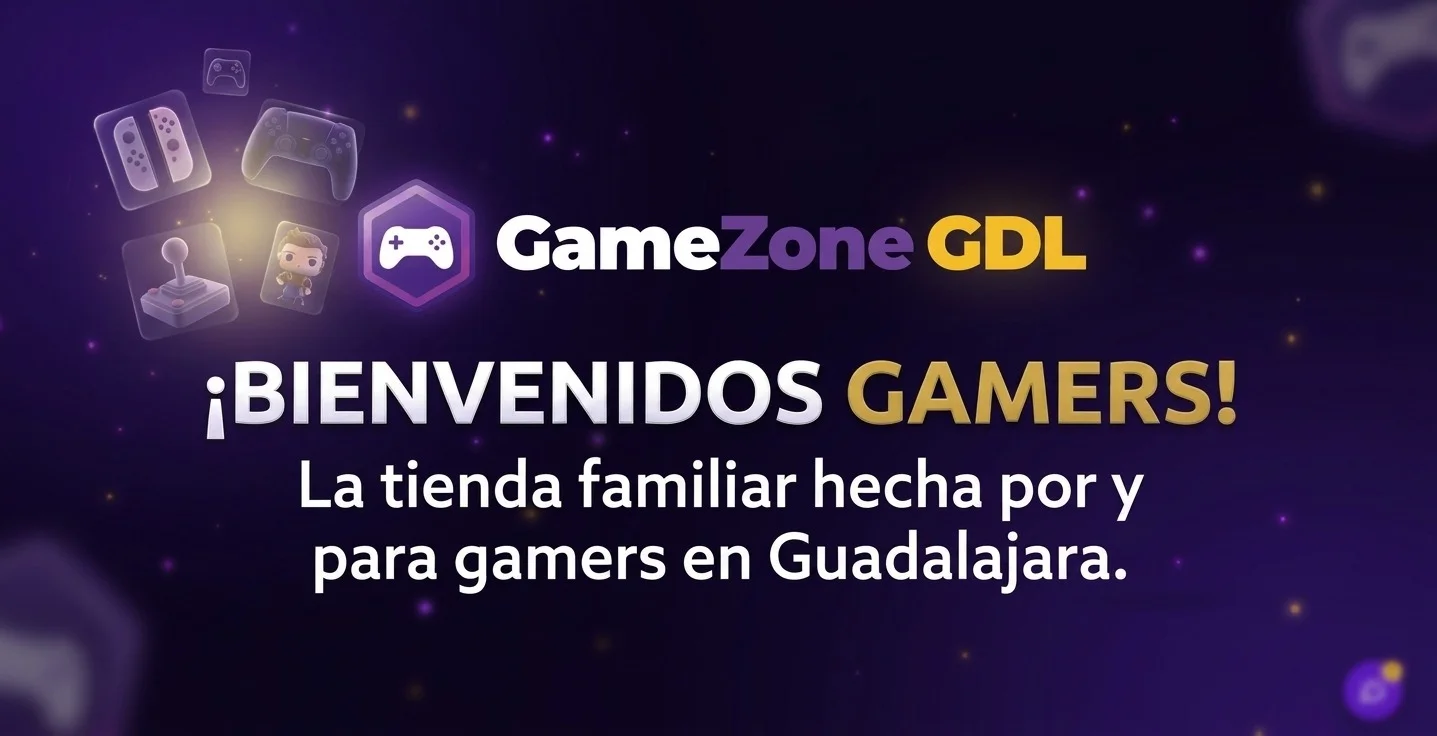
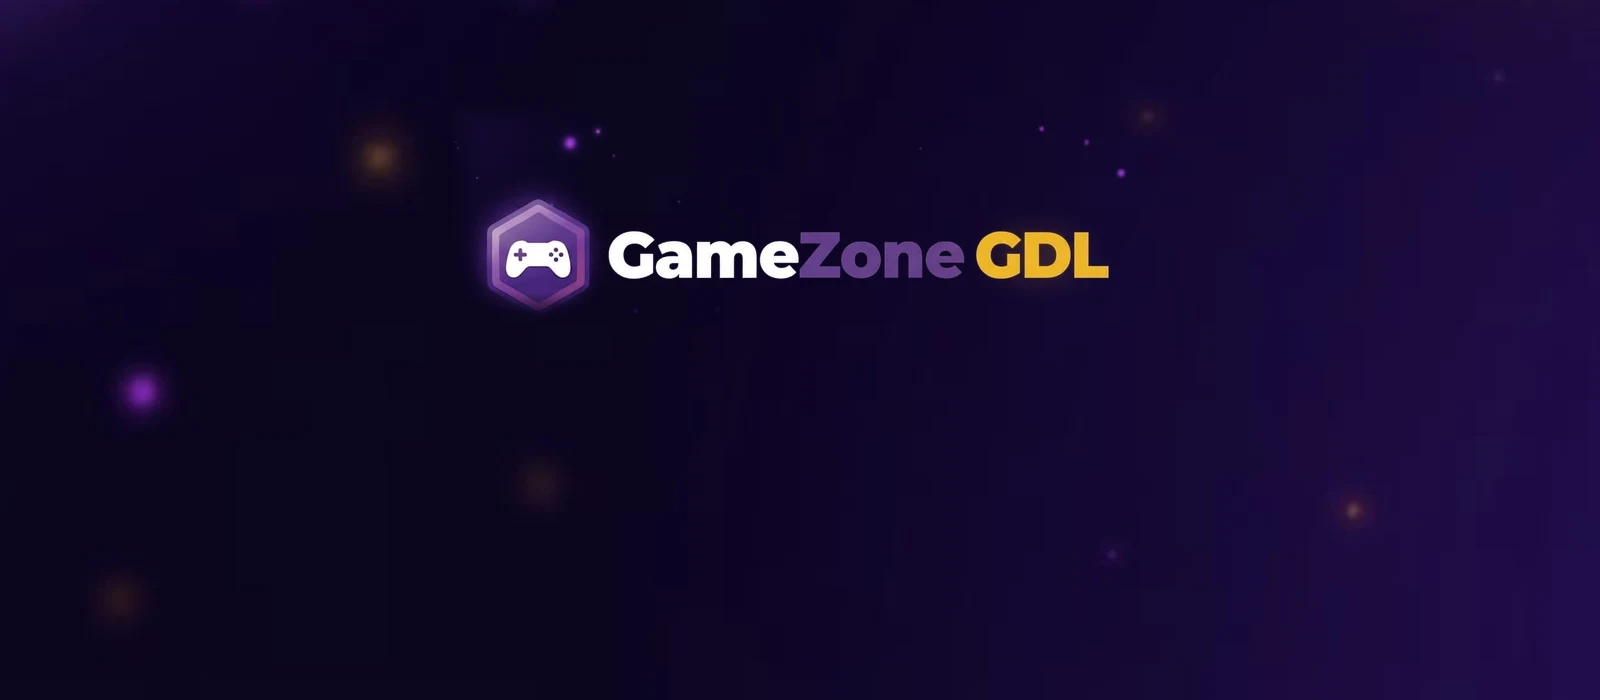
Slide de bienvenida: logotipo con título, frase y botón centrados

diff --git a/assets/css/estilos.css b/assets/css/estilos.css
@@ -539,19 +539,22 @@ p + p { margin-top: .8rem; }
 .pie__rejilla > *, .dos-columnas > *, .tienda > *, .carrito > *, .panel-cuenta > * { min-width: 0; }
 @media (max-width: 560px) { .pie__rejilla { grid-template-columns: minmax(0, 1fr); } }
 
-/* Slide tipo banner: la imagen ya trae su texto, solo se muestra el botón */
-.slide--banner { background: #210e46; }
-.slide--banner img { object-position: center bottom; }
-.slide__texto--solo-boton {
-  background: none; justify-content: flex-end; padding: 0 7% 5.2rem;
+/* Slide de marca: logotipo arriba; título, frase y botón centrados debajo */
+.slide--marca img { object-position: center; }
+.slide__texto--centro {
+  background: none; align-items: center; justify-content: flex-end; text-align: center; padding: 0 1.5rem 5.6rem;
 }
-.slide__texto--solo-boton .btn { align-self: flex-end; box-shadow: 0 8px 24px rgba(0, 0, 0, .35); }
+.slide__texto--centro h2 { max-width: none; font-size: clamp(1.7rem, 3.4vw, 2.7rem); }
+.slide__texto--centro h2 span { color: var(--ambar); }
+.slide__texto--centro p { max-width: 560px; margin: .5rem 0 1.3rem; font-size: 1.15rem; color: #e9e3ff; }
+.slide__texto--centro .btn { align-self: center; padding: .8rem 2.2rem; box-shadow: 0 8px 24px rgba(0, 0, 0, .35); }
 @media (max-width: 860px) {
-  .slide--banner img { object-fit: contain; }
-  .slide__texto--solo-boton { background: none; padding: 0 1rem 2.6rem; }
-  .slide__texto--solo-boton .btn { align-self: center; }
+  .slide__texto--centro { background: none; justify-content: flex-end; padding: 0 1.2rem 2.6rem; }
+  .slide__texto--centro p { font-size: .95rem; margin: .3rem 0 .9rem; }
 }
-@media (min-width: 1500px) {
-  .slide--banner img { object-fit: contain; object-position: center; }
-  .slide__texto--solo-boton { padding-right: calc((100% - 1016px) / 2 + 2.5rem); }
+@media (max-width: 560px) {
+  .slide__texto--centro { padding-bottom: 2.3rem; }
+  .slide__texto--centro h2 { font-size: 1.35rem; }
+  .slide__texto--centro p { font-size: .85rem; line-height: 1.35; max-width: 300px; margin: .2rem 0 .7rem; }
+  .slide__texto--centro .btn { padding: .55rem 1.6rem; }
 }

diff --git a/index.html b/index.html
@@ -30,9 +30,11 @@
     <section class="slider" aria-label="Productos y servicios destacados">
       <input type="radio" name="slide" id="s1" checked><input type="radio" name="slide" id="s2"><input type="radio" name="slide" id="s3"><input type="radio" name="slide" id="s4">
       <div class="slider__pista">
-        <div class="slide slide--banner">
-          <img src="assets/img/slider/slide1.webp" alt="¡Bienvenidos gamers! GameZone GDL, la tienda familiar hecha por y para gamers en Guadalajara" width="1437" height="736">
-          <div class="slide__texto slide__texto--solo-boton">
+        <div class="slide slide--marca">
+          <img src="assets/img/slider/slide1.webp" alt="Logotipo de GameZone GDL" width="1600" height="700">
+          <div class="slide__texto slide__texto--centro">
+            <h2>¡Bienvenidos, <span>gamers</span>!</h2>
+            <p>La tienda familiar hecha por y para gamers en Guadalajara.</p>
             <a class="btn btn--ambar" href="tienda.html">Ver tienda</a>
           </div>
         </div>
